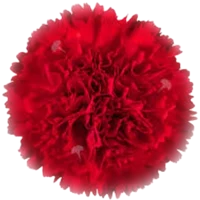
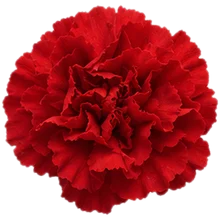
Build-your-bouquet: consistent flower heads generated with ChatGPT (cut out), flower-head card photos, real eucalyptus, contain preview on iOS, sane head size for small bouquets
Claude-Session: https://claude.ai/code/session_01PYfHQA8XYWgc3XRKMyMJoX

diff --git a/build-test.html b/build-test.html
@@ -64,7 +64,7 @@ button:focus-visible,input:focus-visible,textarea:focus-visible{outline:3px soli
 .f{background:var(--paper);border:1.5px solid var(--line);border-radius:16px;display:grid;grid-template-columns:104px minmax(0,1fr);overflow:hidden}
 .f.on{border-color:var(--navy)}
 .f .ph{position:relative;background:var(--sand)}
-.f .ph img{width:100%;height:100%;object-fit:cover;display:block;aspect-ratio:1}
+.f .ph{background:radial-gradient(circle at 50% 45%,#fff 0,#F3ECE3 75%)}.f .ph img{width:100%;height:100%;object-fit:cover;display:block;aspect-ratio:1}.f .ph img.hdimg{object-fit:contain;padding:10px;box-sizing:border-box;filter:drop-shadow(0 3px 5px rgba(60,40,30,.18))}
 .f .ph b{position:absolute;top:8px;inset-inline-start:8px;background:var(--navy);color:#fff;border-radius:999px;min-width:26px;height:26px;display:grid;place-items:center;font-size:13px;padding:0 7px;font-variant-numeric:tabular-nums}
 .f .bd{padding:10px 12px;display:grid;gap:8px;min-width:0}
 .f .hd{display:flex;justify-content:space-between;align-items:baseline;gap:8px}
@@ -92,7 +92,7 @@ button:focus-visible,input:focus-visible,textarea:focus-visible{outline:3px soli
 .pv .cone::after{content:"";position:absolute;inset:0;background:linear-gradient(90deg,rgba(0,0,0,.06),rgba(255,255,255,.25) 50%,rgba(0,0,0,.08))}
 .pv .vase{position:absolute;left:50%;top:150px;width:120px;height:118px;transform:translateX(-50%);border-radius:14px 14px 22px 22px;background:linear-gradient(90deg,rgba(255,255,255,.55),rgba(210,226,230,.55) 50%,rgba(255,255,255,.7));box-shadow:inset 0 0 0 2px rgba(255,255,255,.8),0 4px 10px rgba(0,0,0,.08)}
 .pvnote{font-size:12px;color:var(--muted);margin:8px 2px 0;text-align:center}
-.lines img{width:22px;height:22px;border-radius:50%;object-fit:cover;vertical-align:middle;margin-inline-end:6px}
+.lines img{width:24px;height:24px;object-fit:contain;vertical-align:middle;margin-inline-end:6px}
 .pledge{margin-top:14px;background:#EEF5F0;border-radius:12px;padding:10px 12px;font-size:12.5px;color:#3D5446}.pledge b{display:block;color:var(--ok);font-size:13.5px}
 .f .cl .sw u{text-decoration:none;background:var(--navy);color:#fff;border-radius:999px;padding:0 6px;font-size:11px;font-weight:700}
 .shape em small{font-weight:400;color:var(--muted);font-size:11.5px}
@@ -170,6 +170,8 @@ textarea{width:100%;font:inherit;font-size:16px;border:1.5px solid var(--line);b
 .q{font-size:14px;margin:10px 0 6px}.seg{display:flex;gap:6px}.seg button{flex:1;border:1.5px solid var(--line);background:#fff;border-radius:10px;padding:9px 0;font-size:15px;cursor:pointer}
 .seg button[aria-pressed="true"]{border-color:var(--navy);background:var(--navy);color:#fff}
 .tst .go{margin-top:14px}.tst .go:disabled{font-size:14px}.ghost{width:100%;margin-top:8px;border:1.5px solid var(--navy);background:#fff;color:var(--navy);border-radius:12px;padding:12px;font-size:15px;cursor:pointer}
+.board,.mini,.cmp .pvs{contain:paint;isolation:isolate;-webkit-mask-image:-webkit-radial-gradient(white,black)}
+.mini .pv .hd{filter:none}
 </style>
 
 <div class="app">
@@ -241,6 +243,7 @@ textarea{width:100%;font:inherit;font-size:16px;border:1.5px solid var(--line);b
   var $ = function(id){ return document.getElementById(id); };
   var esc = function(t){ return String(t).replace(/[&<>"]/g, function(c){ return { '&':'&amp;', '<':'&lt;', '>':'&gt;', '"':'&quot;' }[c]; }); };
   var money = function(v){ return (Math.round(v * 100) / 100).toLocaleString('en-US', { maximumFractionDigits: 2 }) + ' ر.س'; };
+  var head = function(id){ return '/img/heads/' + id + '.webp?v=4'; };
   var img = function(id, big){ return '/img/p/' + id + (big ? '-1' : '-1s') + '.webp'; };
   var fk = function(k){ return FL.filter(function(f){ return f.k === k; })[0]; };
   var fq = function(f){ return S.q[f.k].reduce(function(a, n){ return a + n; }, 0); };
@@ -270,7 +273,7 @@ textarea{width:100%;font:inherit;font-size:16px;border:1.5px solid var(--line);b
     $('colhint').className = 'colhint' + (full ? ' full' : '');
     $('fl').innerHTML = FL.map(function(f){
       var ci = S.c[f.k], c = ci > -1 ? f.cols[ci] : null, n = c ? S.q[f.k][ci] : 0, tot = fq(f), left = c ? c[4] : 0;
-      return '<div class="f' + (tot ? ' on' : '') + '"><div class="ph"><img src="' + img(c ? c[3] : f.cols[0][3]) + '" alt="' + esc(f.n + ' ' + (c ? c[1] : '')) + '" loading="lazy">' + (tot ? '<b>' + tot + '</b>' : '') + '</div>'
+      return '<div class="f' + (tot ? ' on' : '') + '"><div class="ph"><img class="hdimg" src="' + head(c ? c[3] : f.cols[0][3]) + '" alt="' + esc(f.n + ' ' + (c ? c[1] : '')) + '" loading="lazy">' + (tot ? '<b>' + tot + '</b>' : '') + '</div>'
         + '<div class="bd"><div class="hd"><b>' + f.n + '</b><span>' + money(f.p) + ' لل' + f.u + '</span></div>'
         + '<div class="cl" role="group" aria-label="لون ' + f.n + '">' + f.cols.map(function(x, i){ var m = S.q[f.k][i], lock = full && used.indexOf(x[0]) < 0;
             return '<button type="button" class="sw' + (lock ? ' lock' : '') + '" data-c="' + f.k + ':' + i + '" aria-pressed="' + (ci === i) + '"' + (x[4] > 0 ? '' : ' disabled title="خلص اليوم"') + '><i style="background:' + x[2] + '"></i>' + x[1] + (m ? ' <u>' + m + '</u>' : '') + '</button>'; }).join('') + '</div>'
@@ -328,12 +331,12 @@ textarea{width:100%;font:inherit;font-size:16px;border:1.5px solid var(--line);b
     var groups = {}; items.forEach(function(l){ var key = l.f.k + l.i; (groups[key] = groups[key] || []).push(l); });
     var g = Object.keys(groups).map(function(k){ return groups[k]; }).sort(function(a, b){ return HEAD[b[0].f.k] - HEAD[a[0].f.k]; }), deal = [];
     while(deal.length < N){ g.forEach(function(arr){ if(arr.length) deal.push(arr.shift()); }); }
-    var W = 300, cx = 150, cy = 118, R = 108, d = Math.max(30, Math.min(64, 2.3 * R / Math.sqrt(N))) * (photo ? 1.02 : 1), html = '';
+    var W = 300, cx = 150, cy = 118, R = N < 6 ? 70 : 108, d = Math.max(30, Math.min(N < 6 ? 54 : 64, 2.3 * R / Math.sqrt(N))) * (photo ? 1.05 : 1), html = '';
     for(var i = N - 1; i >= 0; i--){ var l = deal[i], r = R * Math.sqrt((i + .5) / N), a = i * 2.39996, s = d * HEAD[l.f.k];
       var sn, x = cx + r * Math.cos(a) * 1.08, sn = Math.sin(a), y = cy - 6 + r * sn * (sn > 0 ? .42 : .8) - (1 - r / R) * 12;
-      html += '<span class="hd' + (photo ? ' ph' : '') + (!photo && rgb(l.c[2]).reduce(function(a, v){ return a + v; }, 0) > 690 ? ' lt' : '') + '" style="width:' + s.toFixed(1) + 'px;height:' + s.toFixed(1) + 'px;left:' + (x - s / 2).toFixed(1) + 'px;top:' + (y - s / 2).toFixed(1) + 'px;z-index:' + (100 - i) + ';transform:rotate(' + (photo ? ((i * 37) % 24) - 12 : (i * 47) % 360) + 'deg)">' + (photo ? '<img src="/img/heads/' + l.c[3] + '.webp?v=3" alt="" decoding="async">' : headSvg(l.f.k, l.c[2])) + '</span>'; }
+      html += '<span class="hd' + (photo ? ' ph' : '') + (!photo && rgb(l.c[2]).reduce(function(a, v){ return a + v; }, 0) > 690 ? ' lt' : '') + '" style="width:' + s.toFixed(1) + 'px;height:' + s.toFixed(1) + 'px;left:' + (x - s / 2).toFixed(1) + 'px;top:' + (y - s / 2).toFixed(1) + 'px;z-index:' + (100 - i) + ';transform:rotate(' + (photo ? ((i * 37) % 24) - 12 : (i * 47) % 360) + 'deg)">' + (photo ? '<img src="/img/heads/' + l.c[3] + '.webp?v=4" alt="" decoding="async">' : headSvg(l.f.k, l.c[2])) + '</span>'; }
     var greens = ''; for(var k = 0; k < (S.ex.green ? 12 : 7); k++){ var ga = Math.PI * (1.12 + k * (0.76 / (S.ex.green ? 11 : 6))), gx = cx + Math.cos(ga) * (R - 2) * 1.12, gy = cy + Math.sin(ga) * (R * .74) + 4;
-      greens += '<span class="lf" style="left:' + (gx - 16).toFixed(1) + 'px;top:' + (gy - 30).toFixed(1) + 'px;transform:rotate(' + (ga * 57.3 + 90).toFixed(0) + 'deg)">' + LEAF + '</span>'; }
+      greens += '<span class="lf" style="left:' + (gx - 16).toFixed(1) + 'px;top:' + (gy - 30).toFixed(1) + 'px;transform:rotate(' + (ga * 57.3 + 90).toFixed(0) + 'deg)">' + (S.pv === 'photo' ? '<img src="' + head('euca') + '" alt="" style="width:100%;height:100%;object-fit:contain">' : LEAF) + '</span>'; }
     // the wrap is two sheets: one fanned out behind the flowers, one folded in front, tied with a satin bow
     var w = wrapOf()[2], wd = shade(w, .9), wl = mix(w, '#FFFFFF', .3), back = '', front = '';
     if(S.base === 'vase'){
@@ -359,7 +362,7 @@ textarea{width:100%;font:inherit;font-size:16px;border:1.5px solid var(--line);b
     $('pvnote').textContent = S.pv === 'photo' ? 'معاينة تقريبية من صور وردنا الحقيقية. الباقة الفعلية تختلف في التوزيع، ونرسل لك صورتها قبل ما تطلع.' : 'معاينة مرسومة تقريبية للألوان والتوزيع، مو صورة الباقة النهائية.';
     var cs = []; L.forEach(function(l){ if(!cs.some(function(x){ return x[0] === l.c[0]; })) cs.push(l.c); });
     $('pal').innerHTML = cs.length ? cs.map(function(c){ return '<i style="background:' + c[2] + '" title="' + c[1] + '"></i>'; }).join('') + '<span style="margin-inline-start:12px">' + cs.map(function(c){ return c[1]; }).join(' · ') + ' · ' + (S.base === 'vase' ? 'فازة زجاج' : 'تغليف ' + wrapOf()[1]) + '</span>' : '';
-    $('lines').innerHTML = '<li><span>' + base().n + (S.base === 'wrap' ? ' · تغليف ' + wrapOf()[1] : '') + '</span><span>' + money(base().p) + '</span></li>' + L.map(function(l){ return '<li><span><img src="' + img(l.c[3]) + '" alt="">' + l.n + ' ' + l.f.n + ' ' + l.c[1] + '</span><span>' + money(l.n * l.f.p) + '</span></li>'; }).join('')
+    $('lines').innerHTML = '<li><span>' + base().n + (S.base === 'wrap' ? ' · تغليف ' + wrapOf()[1] : '') + '</span><span>' + money(base().p) + '</span></li>' + L.map(function(l){ return '<li><span><img src="' + head(l.c[3]) + '" alt="">' + l.n + ' ' + l.f.n + ' ' + l.c[1] + '</span><span>' + money(l.n * l.f.p) + '</span></li>'; }).join('')
       + EXTRAS.filter(function(x){ return S.ex[x.k]; }).map(function(x){ return '<li><span>' + x.n + '</span><span>' + money(x.p) + '</span></li>'; }).join('') + '<li class="sum"><span>المجموع</span><span>' + money(total()) + '</span></li>';
     $('pvnote').hidden = !L.length;
   }
